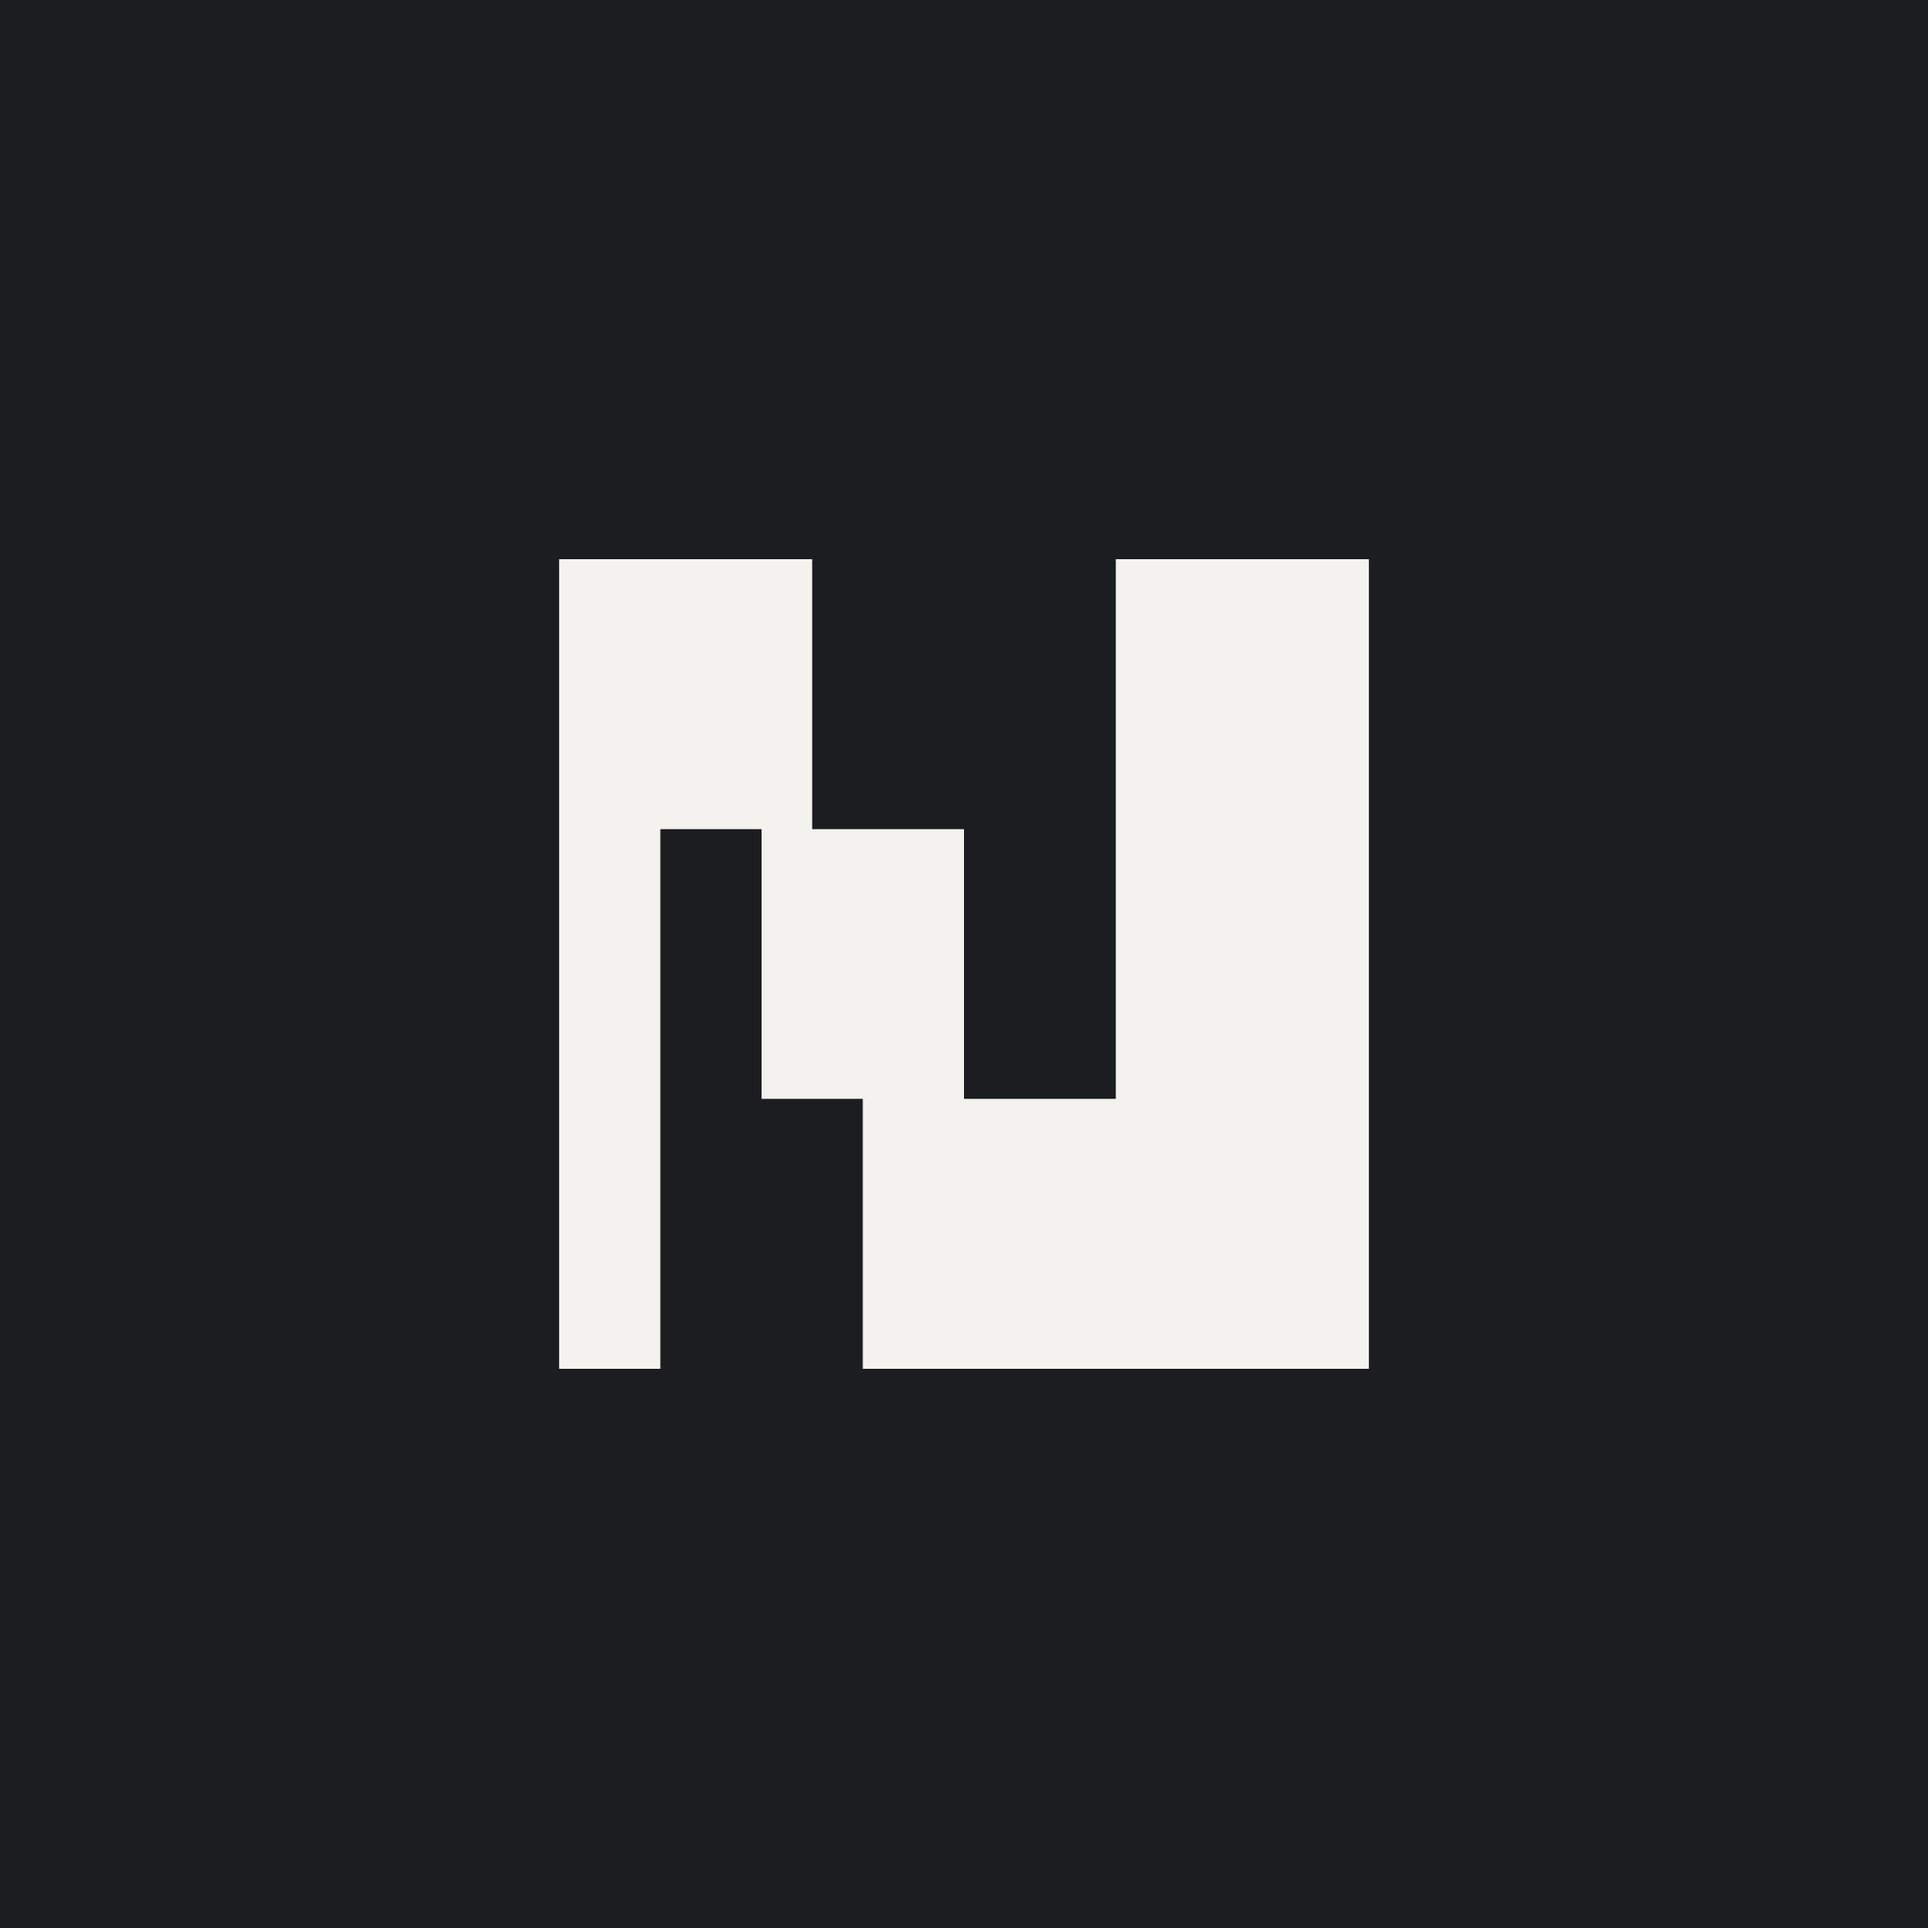
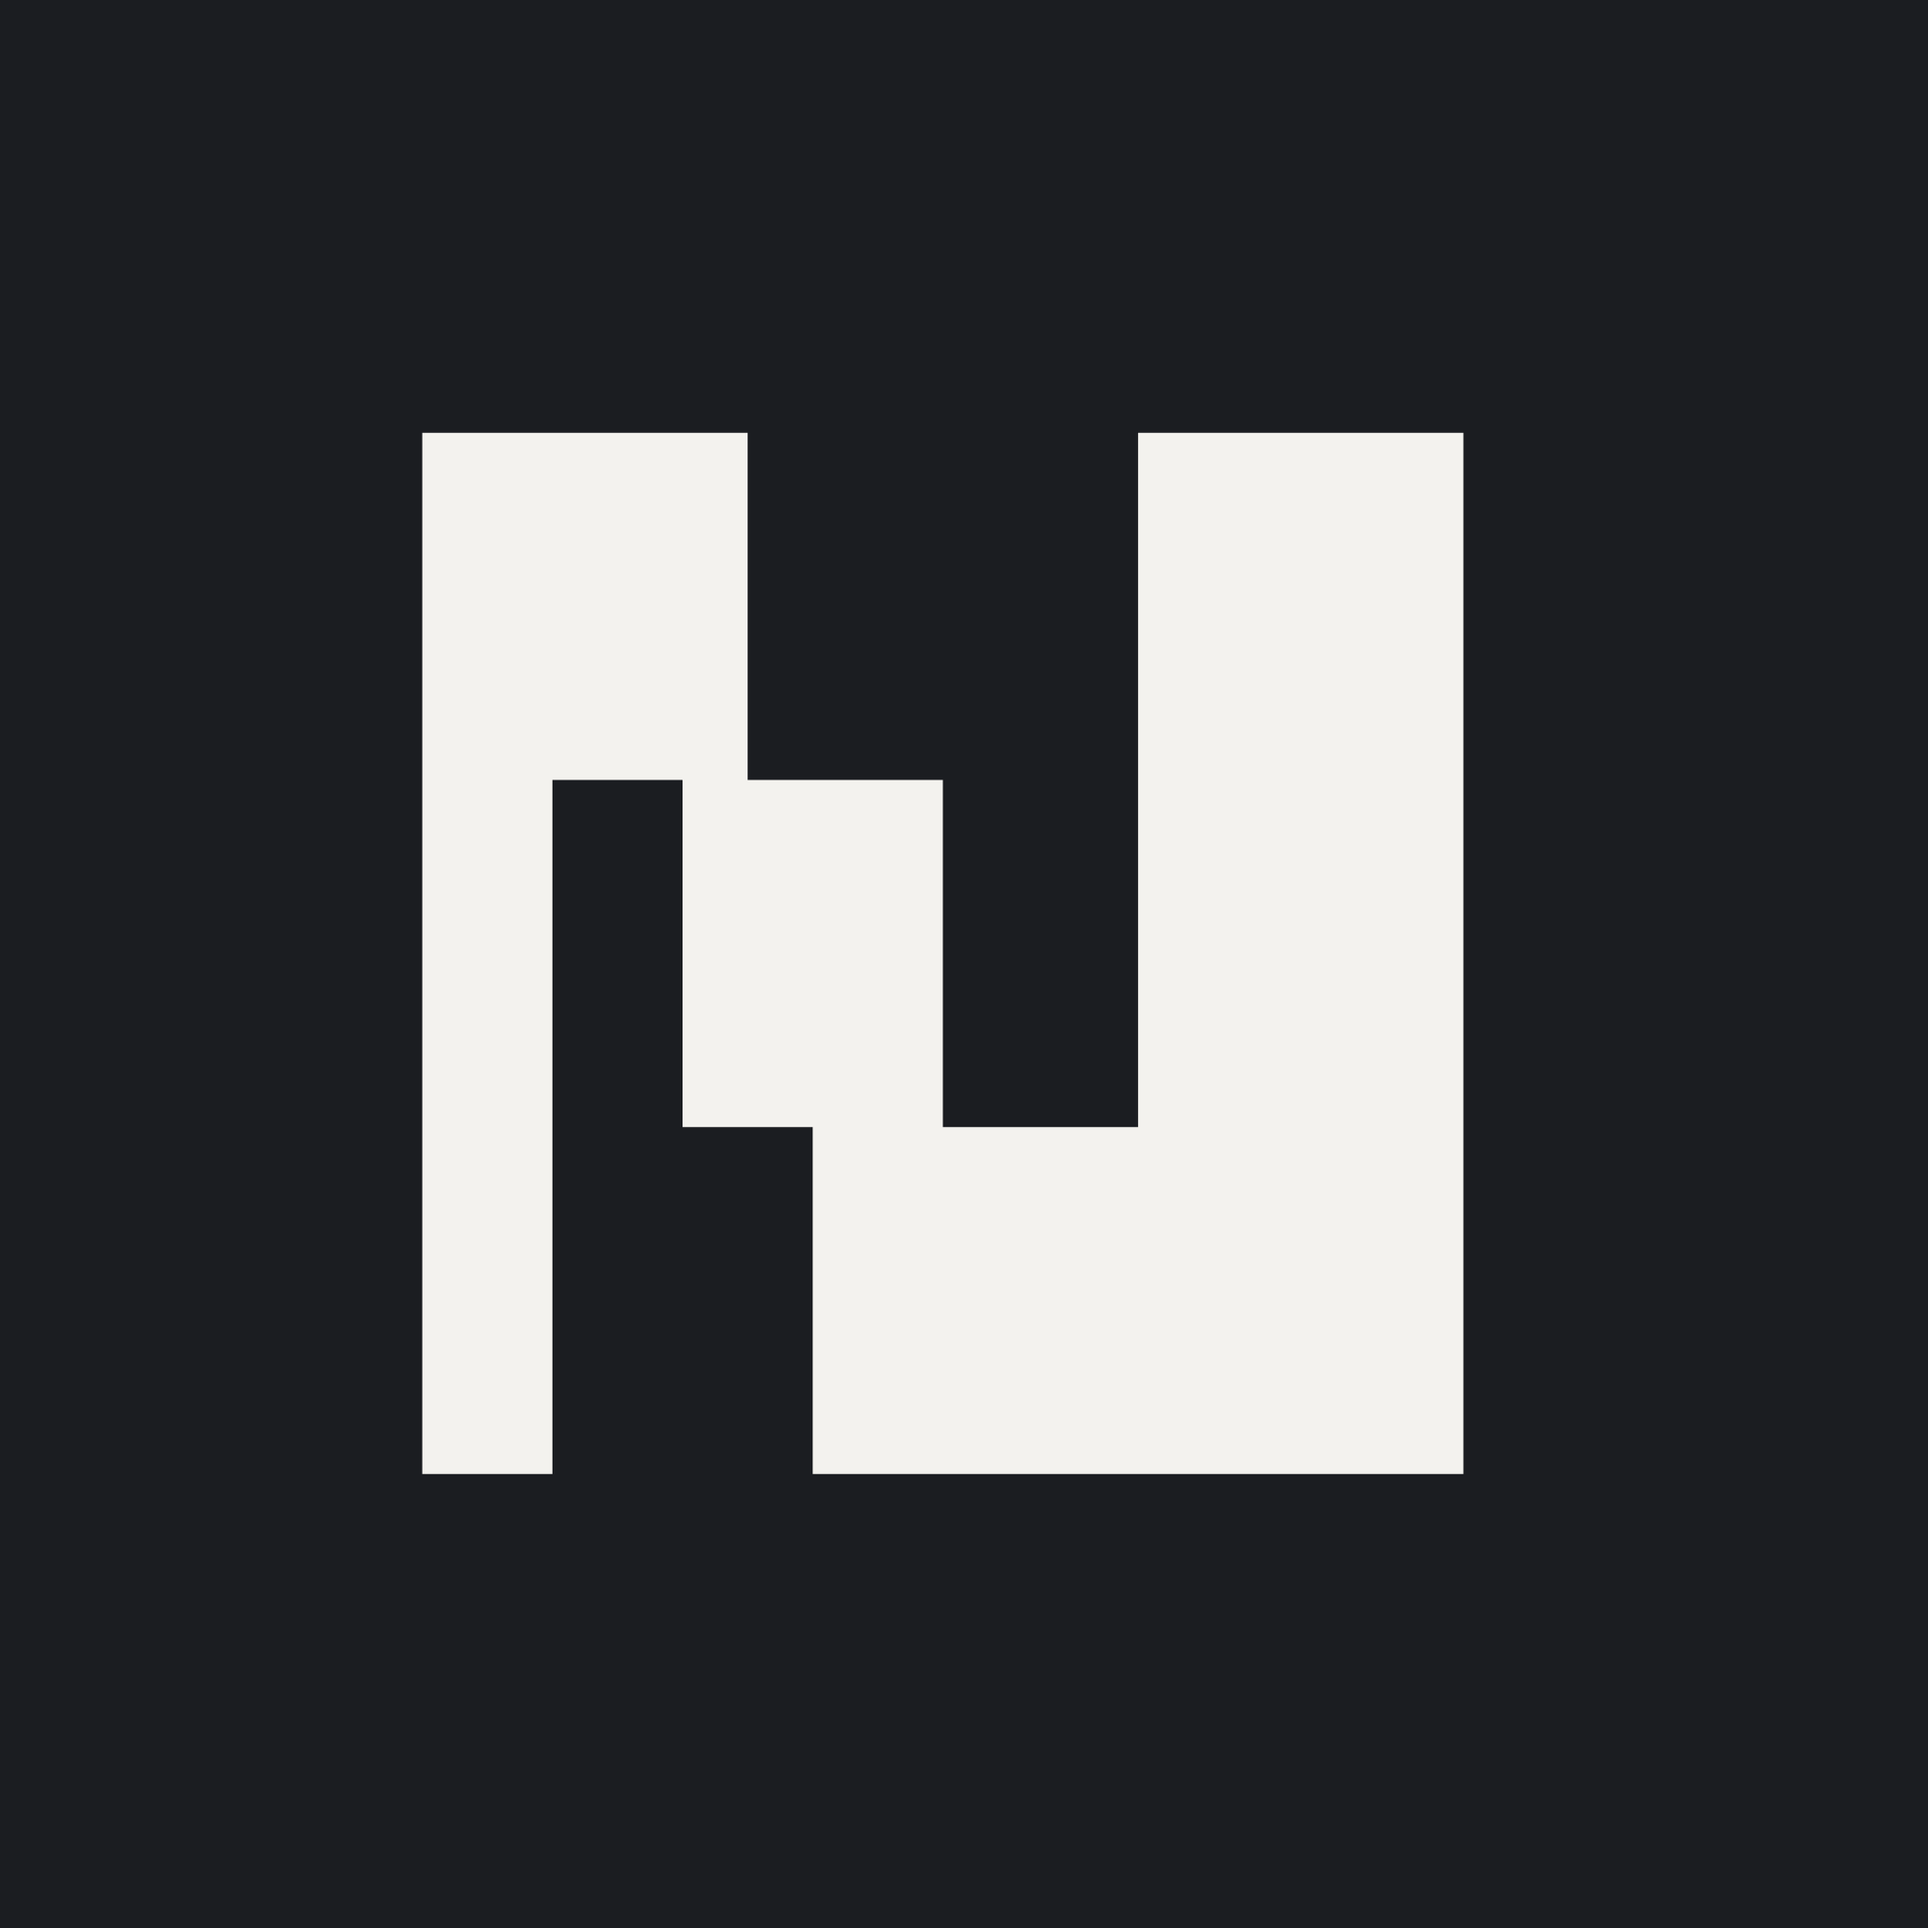
Foto de perfil: N em 54% com correção ótica
O N passa de 42% para 54% do lado, para ter presença nos tamanhos pequenos
do app (feed, comentários, direct), com folga até a borda do círculo. O
símbolo recua metade da diferença entre o centro de massa (51,9; 49,9) e o
centro da caixa, para parecer centrado. Cores e variações mantidas.

Claude-Session: https://claude.ai/code/session_011184PcH9G9ZqwwvJGvg2fK

Changed region(s): [[0.2188, 0.2188, 0.7812, 0.7812]]

diff --git a/assets/social/instagram/fonte/art.js b/assets/social/instagram/fonte/art.js
@@ -3,12 +3,15 @@ const C = { carbono: "#1B1D21", mineral: "#F3F2EE", acento: "#F26522" };
 const SIMBOLO = "M0 0H30V32H48V64H66V0H96V96H36V64H24V32H12V96H0Z";
 
 // ---------- Perfil ----------
-// tamanho do símbolo em % do lado: seguro p/ recorte circular e legível em 110px
-function perfil({ fundo, simbolo, escala = 0.42 }) {
-  const s = 1000 * escala, o = (1000 - s) / 2;
+// N em 54% do lado: presença nos tamanhos pequenos do app (feed, comentários, direct) com folga
+// até a borda do círculo. Correção ótica: o centro de massa do N fica em (51,9; 49,9) na grade 96,
+// à direita e abaixo do centro da caixa; o símbolo recua metade dessa diferença para parecer centrado.
+const OTICA = { dx: -1.95, dy: -0.97 };
+function perfil({ fundo, simbolo, escala = 0.54 }) {
+  const s = 1000 * escala, o = (1000 - s) / 2, k = s / 96;
   return `<svg xmlns="http://www.w3.org/2000/svg" viewBox="0 0 1000 1000">
   <rect width="1000" height="1000" fill="${fundo}"/>
-  <path transform="translate(${o} ${o}) scale(${s / 96})" fill="${simbolo}" d="${SIMBOLO}"/>
+  <path transform="translate(${+(o + OTICA.dx * k).toFixed(2)} ${+(o + OTICA.dy * k).toFixed(2)}) scale(${+k.toFixed(4)})" fill="${simbolo}" d="${SIMBOLO}"/>
 </svg>`;
 }
 
